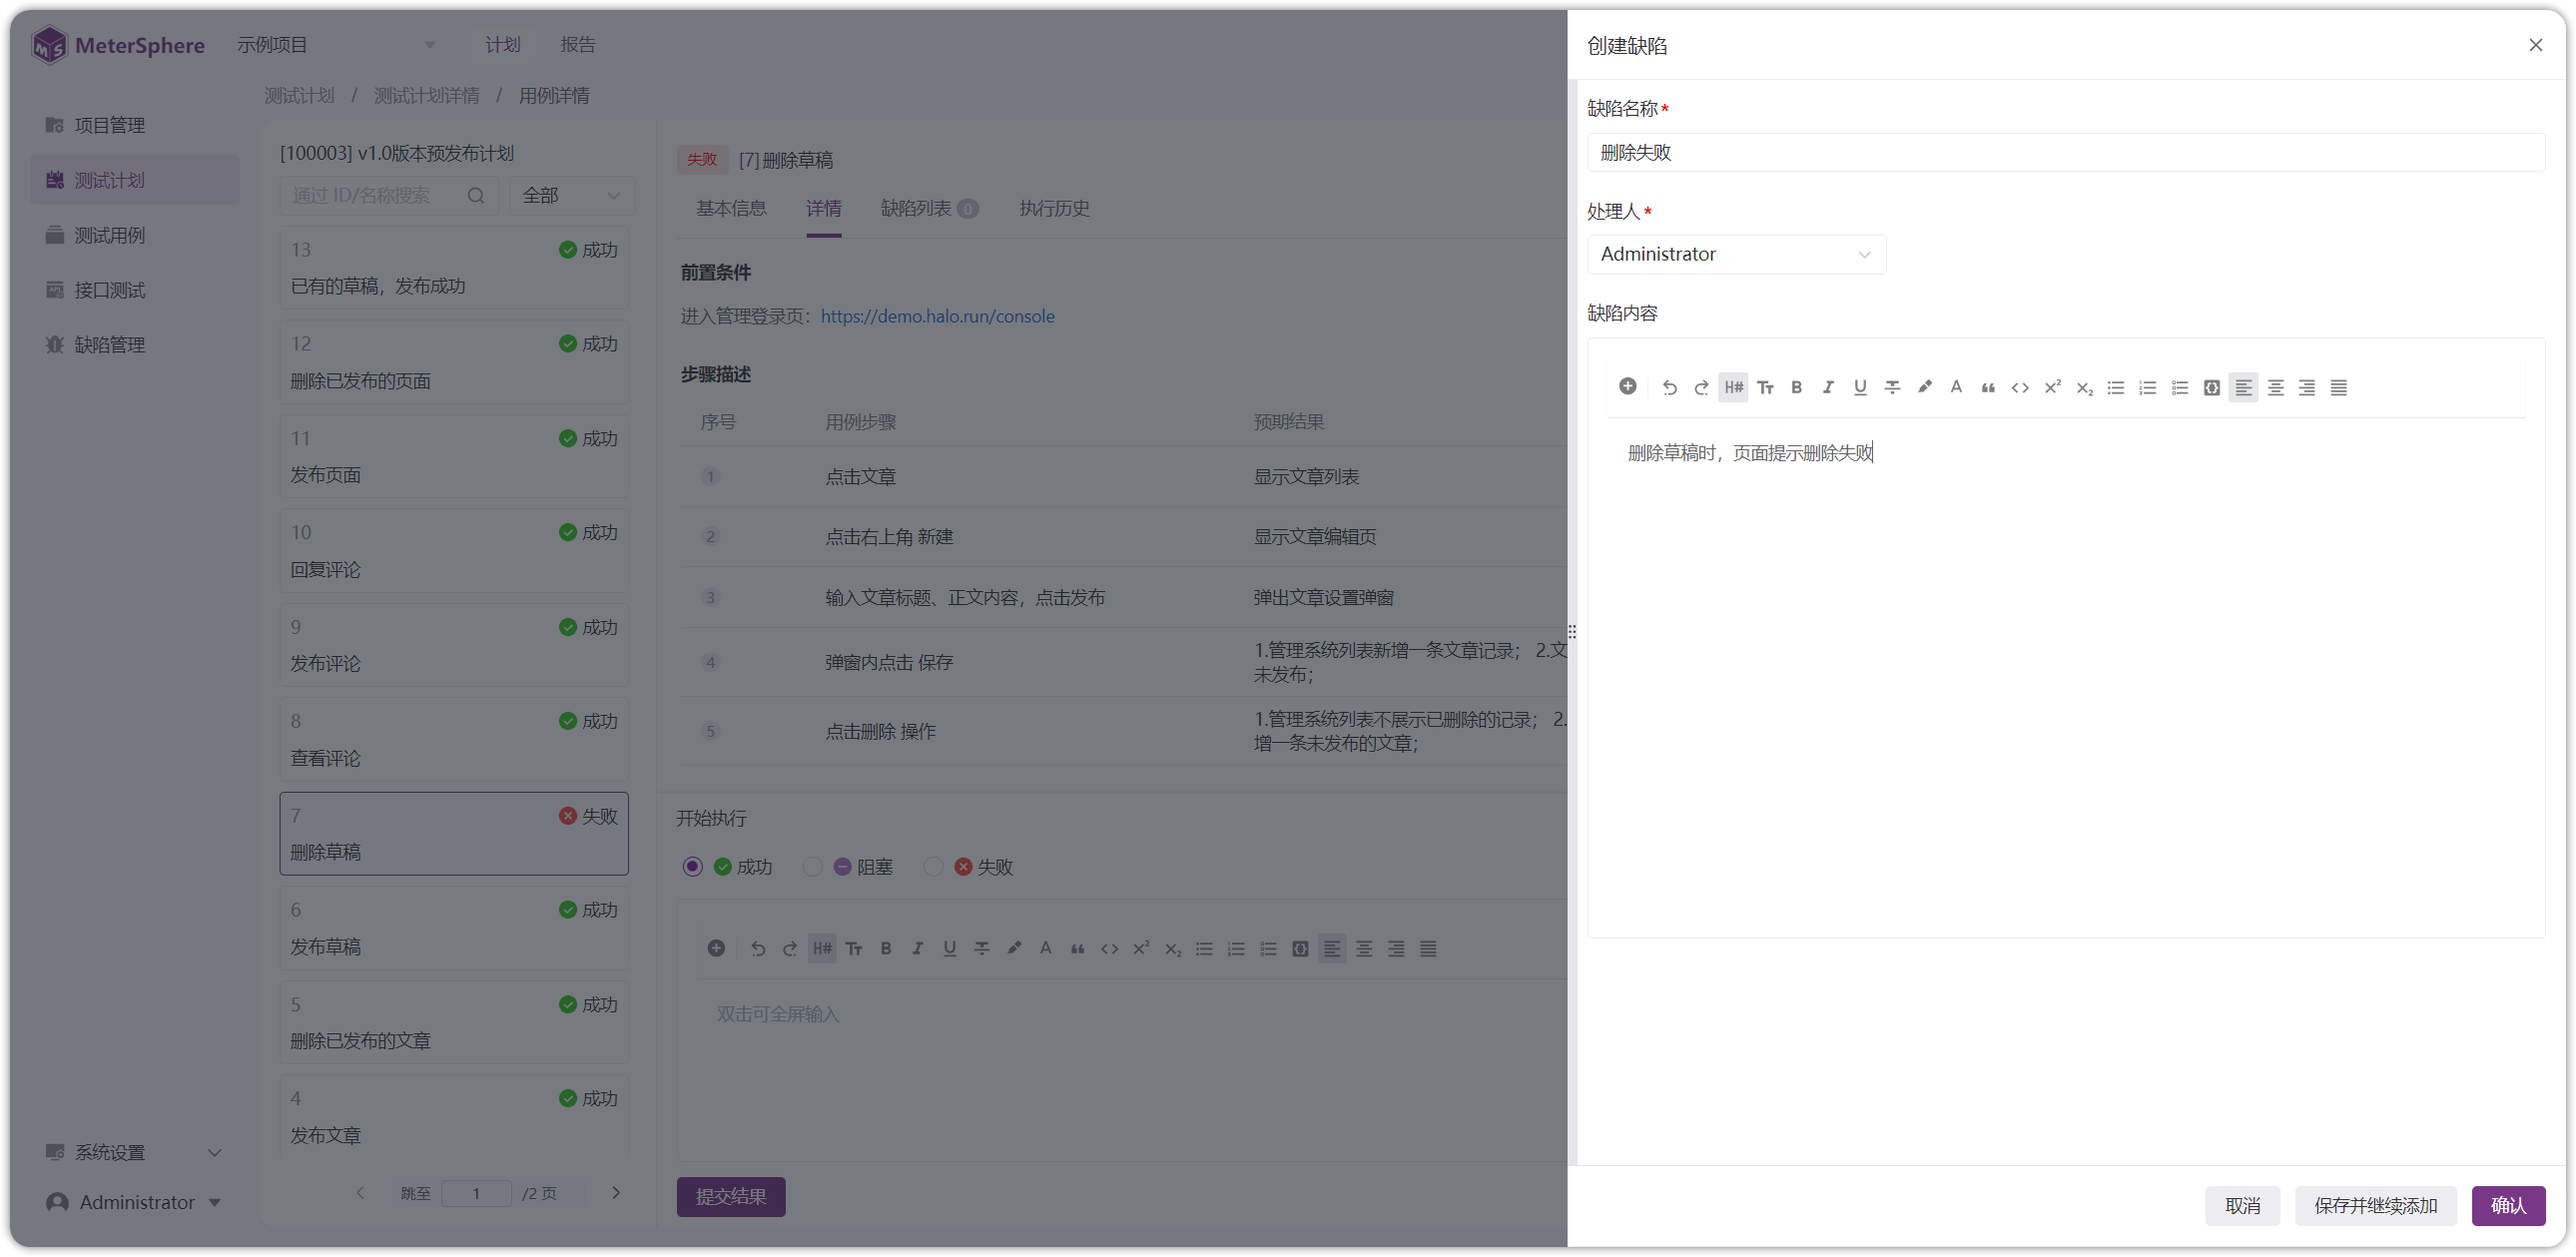
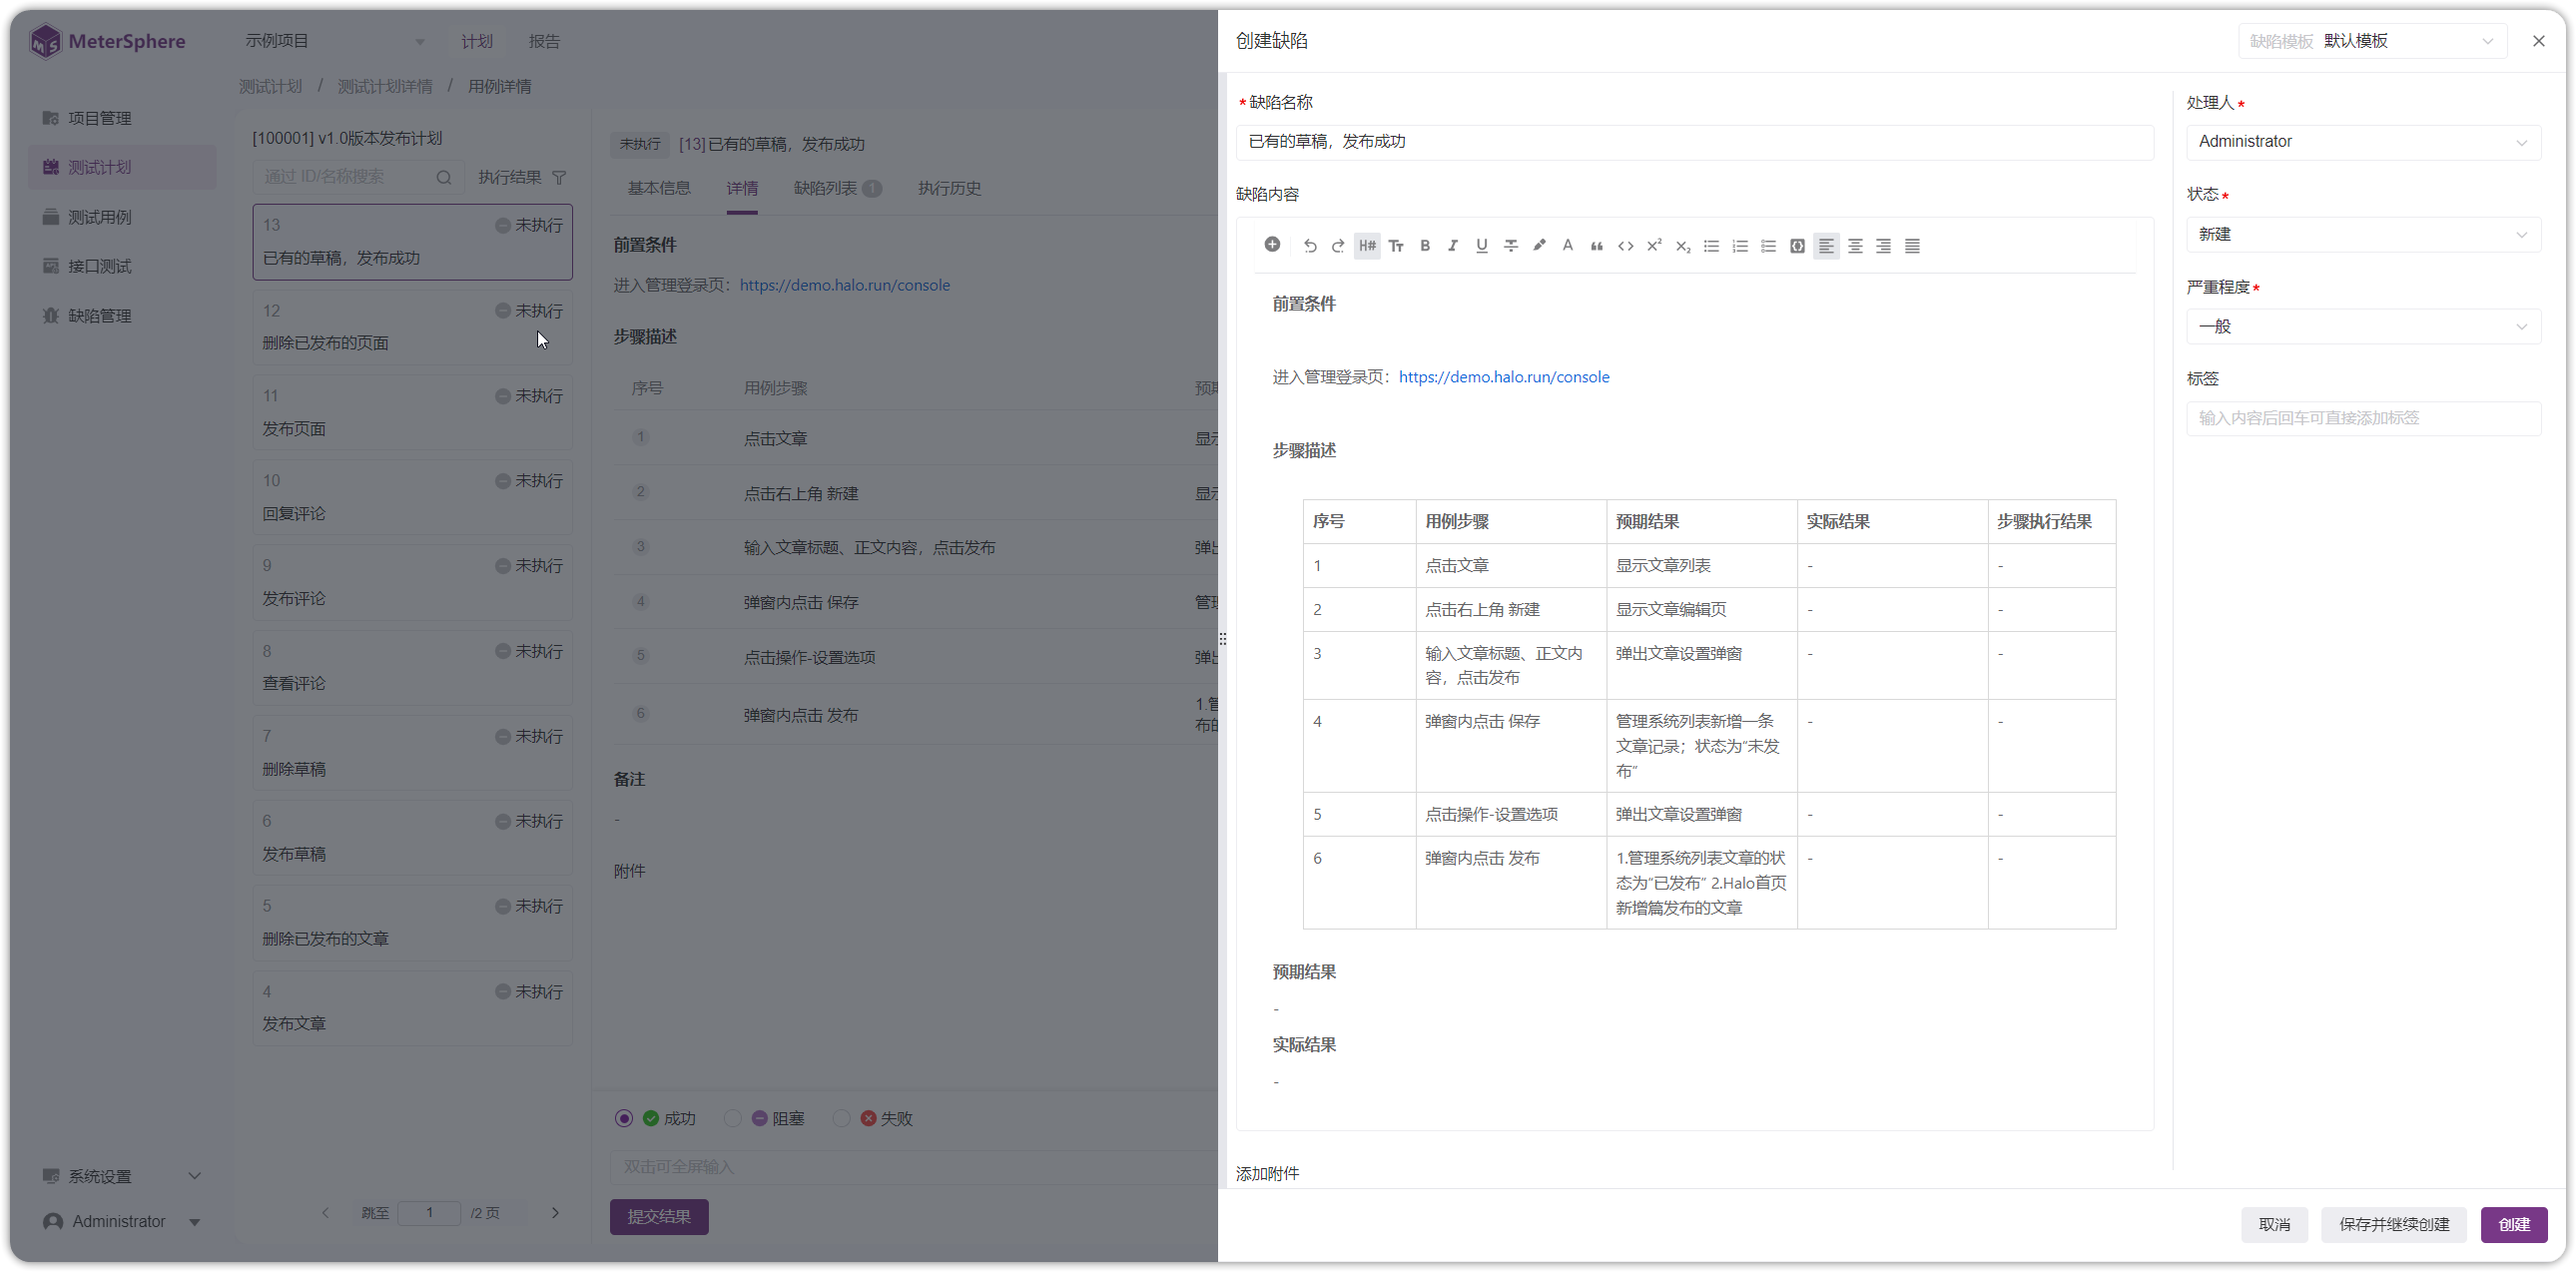
modified: 一键生成缺陷内容

diff --git a/docs/user_manual/test_plan/test_plan.md b/docs/user_manual/test_plan/test_plan.md
@@ -90,9 +90,11 @@
 ![!测试计划](../../img/test_plan/plan/测试计划执行2.png){ width="900px" }
 
 !!! ms-abstract ""
-    如果用例执行失败，如下图缺陷处点击【+】，选择【新建】或者【关联】缺陷，给当前用例创建缺陷。
+    如果用例执行失败，如下图缺陷处点击【+】，可当前用例【新建】或者【关联】缺陷。
 ![!测试计划](../../img/test_plan/plan/创建缺陷1.png){ width="900px" }
 
+!!! ms-abstract ""
+    点击【新建】，可自动录入用例步骤生成缺陷内容。
 ![!测试计划](../../img/test_plan/plan/创建缺陷2.png){ width="900px" }
 
 !!! ms-abstract ""
